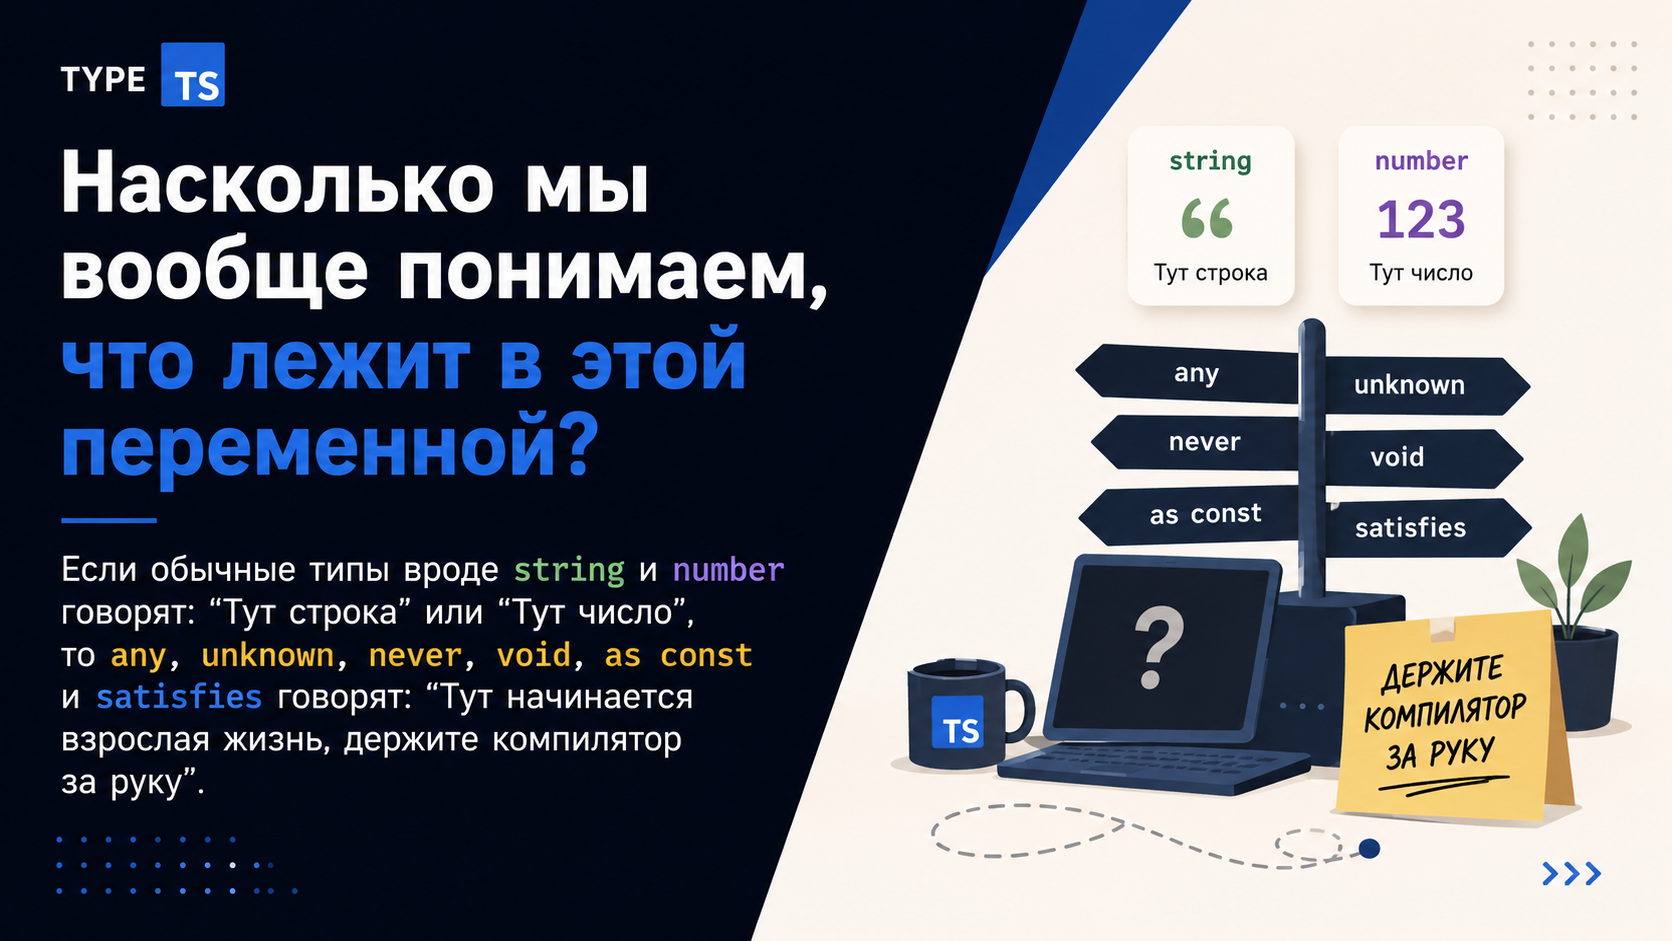
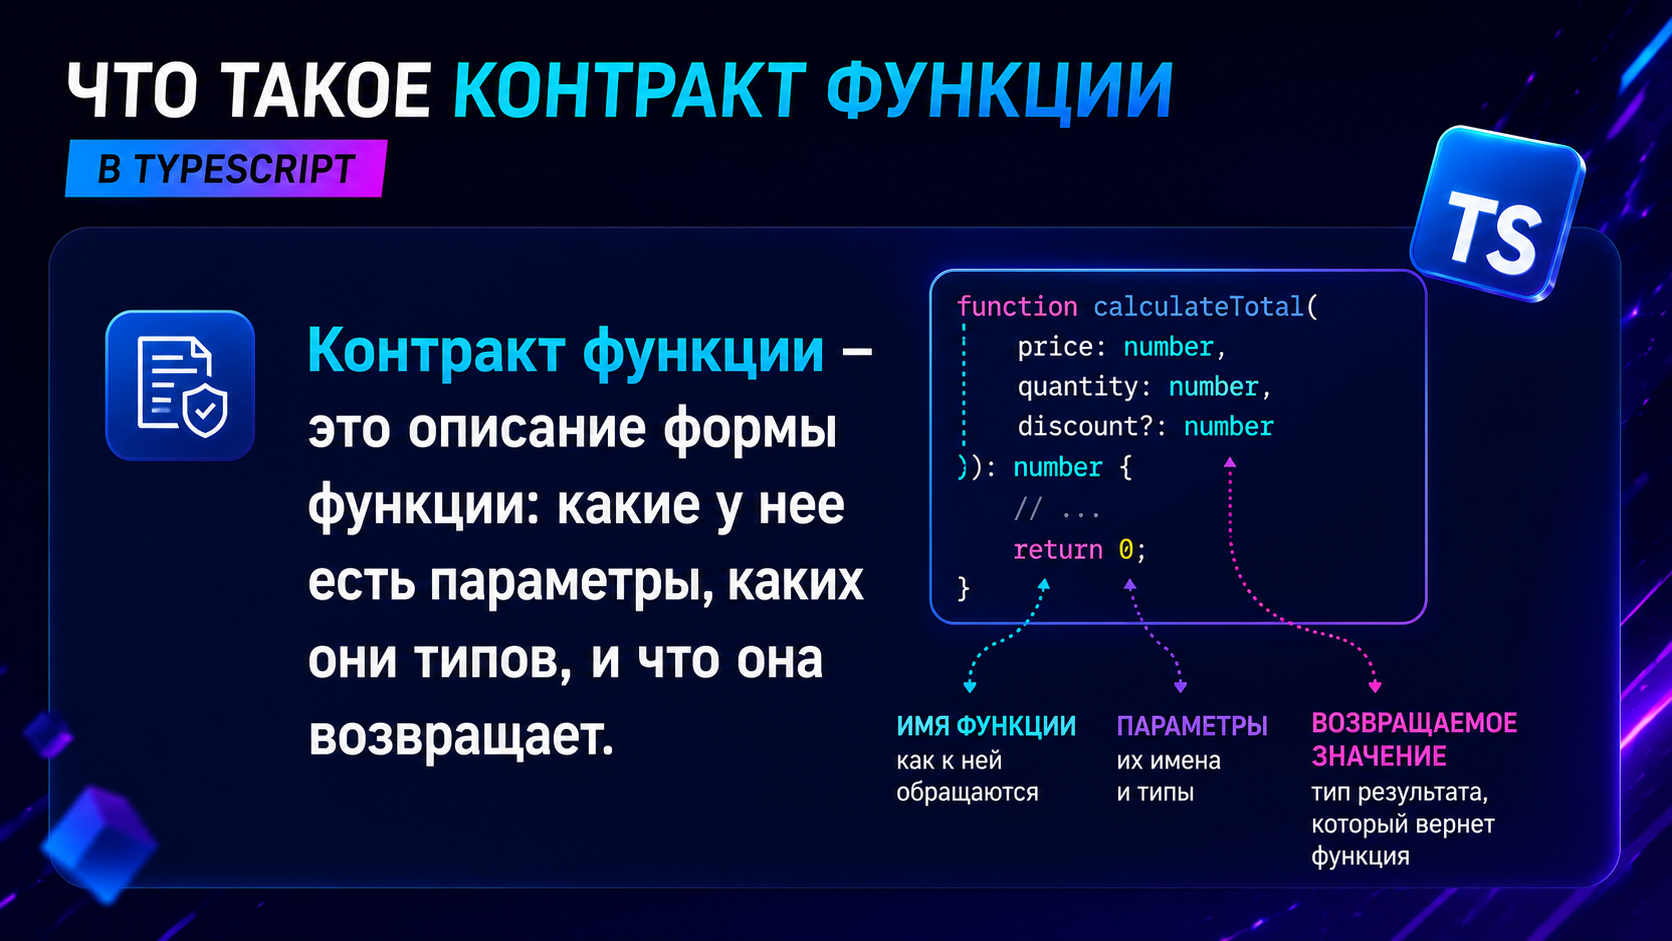
Lesson_5

diff --git a/HOMEWORK-TASK.md b/HOMEWORK-TASK.md
@@ -1,3 +1,5 @@
+# Урок 5. Функции как типизированные контракты
+
 ## Домашнее задание
 
 ### Контрольные вопросы
